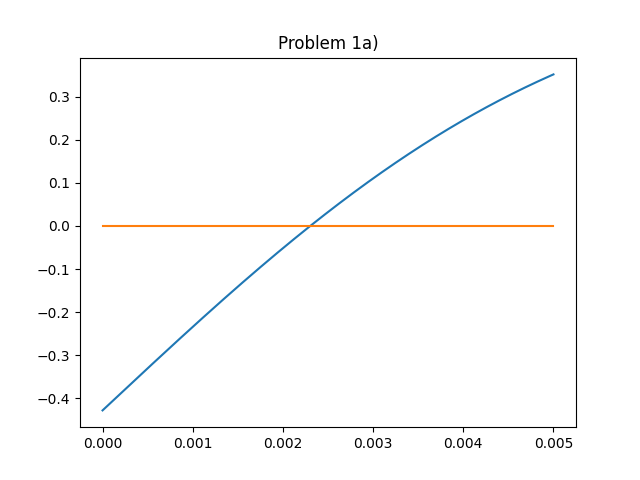
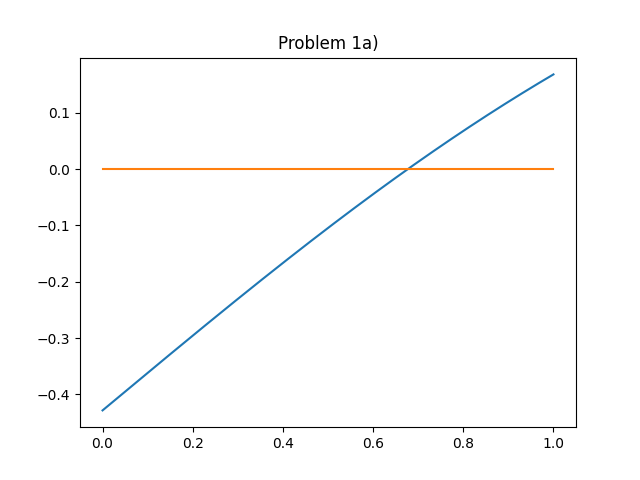
Fixed error in 1a)

diff --git a/Homework/HW4/hw4.py b/Homework/HW4/hw4.py
@@ -9,11 +9,11 @@ import matplotlib.pyplot as plt
 
 # constants
 alpha = 0.138 * 10 ** -6
-t_f = 60 #5184000
+t_f = 5184000
 T_i = 20
 T_s = -15
-# 500 x-values, x between 0 and 0.005
-x = np.linspace(0, 0.005, 500)
+# 500 x-values, x between 0 and 1
+x = np.linspace(0, 1, 500)
 # y = f(x) = erf(x / 2sqrt(alpha * t_f)) + (T_s) / (T_i - T_s)
 y = sp.special.erf((x) / (2 * np.sqrt(alpha * t_f))) + (((T_s)) / (T_i - T_s))
 # y0 = 0
